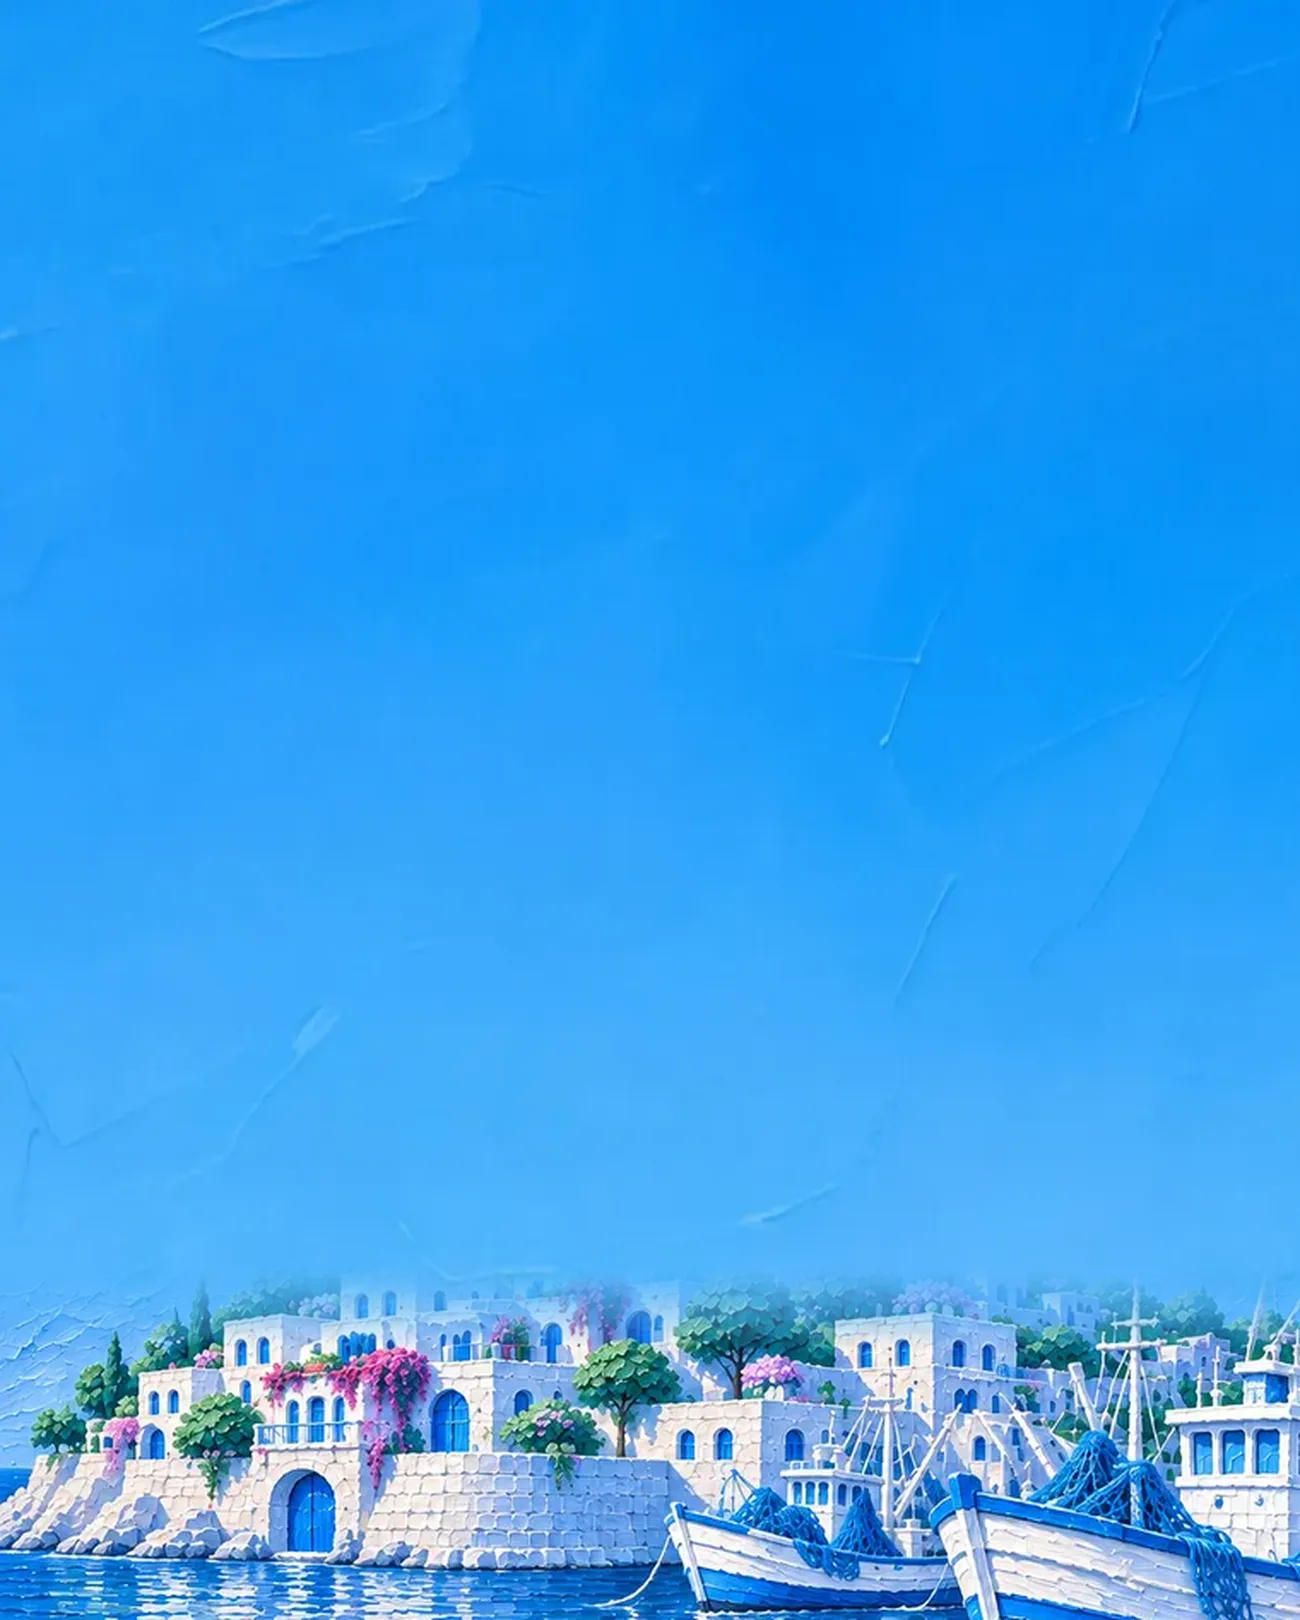
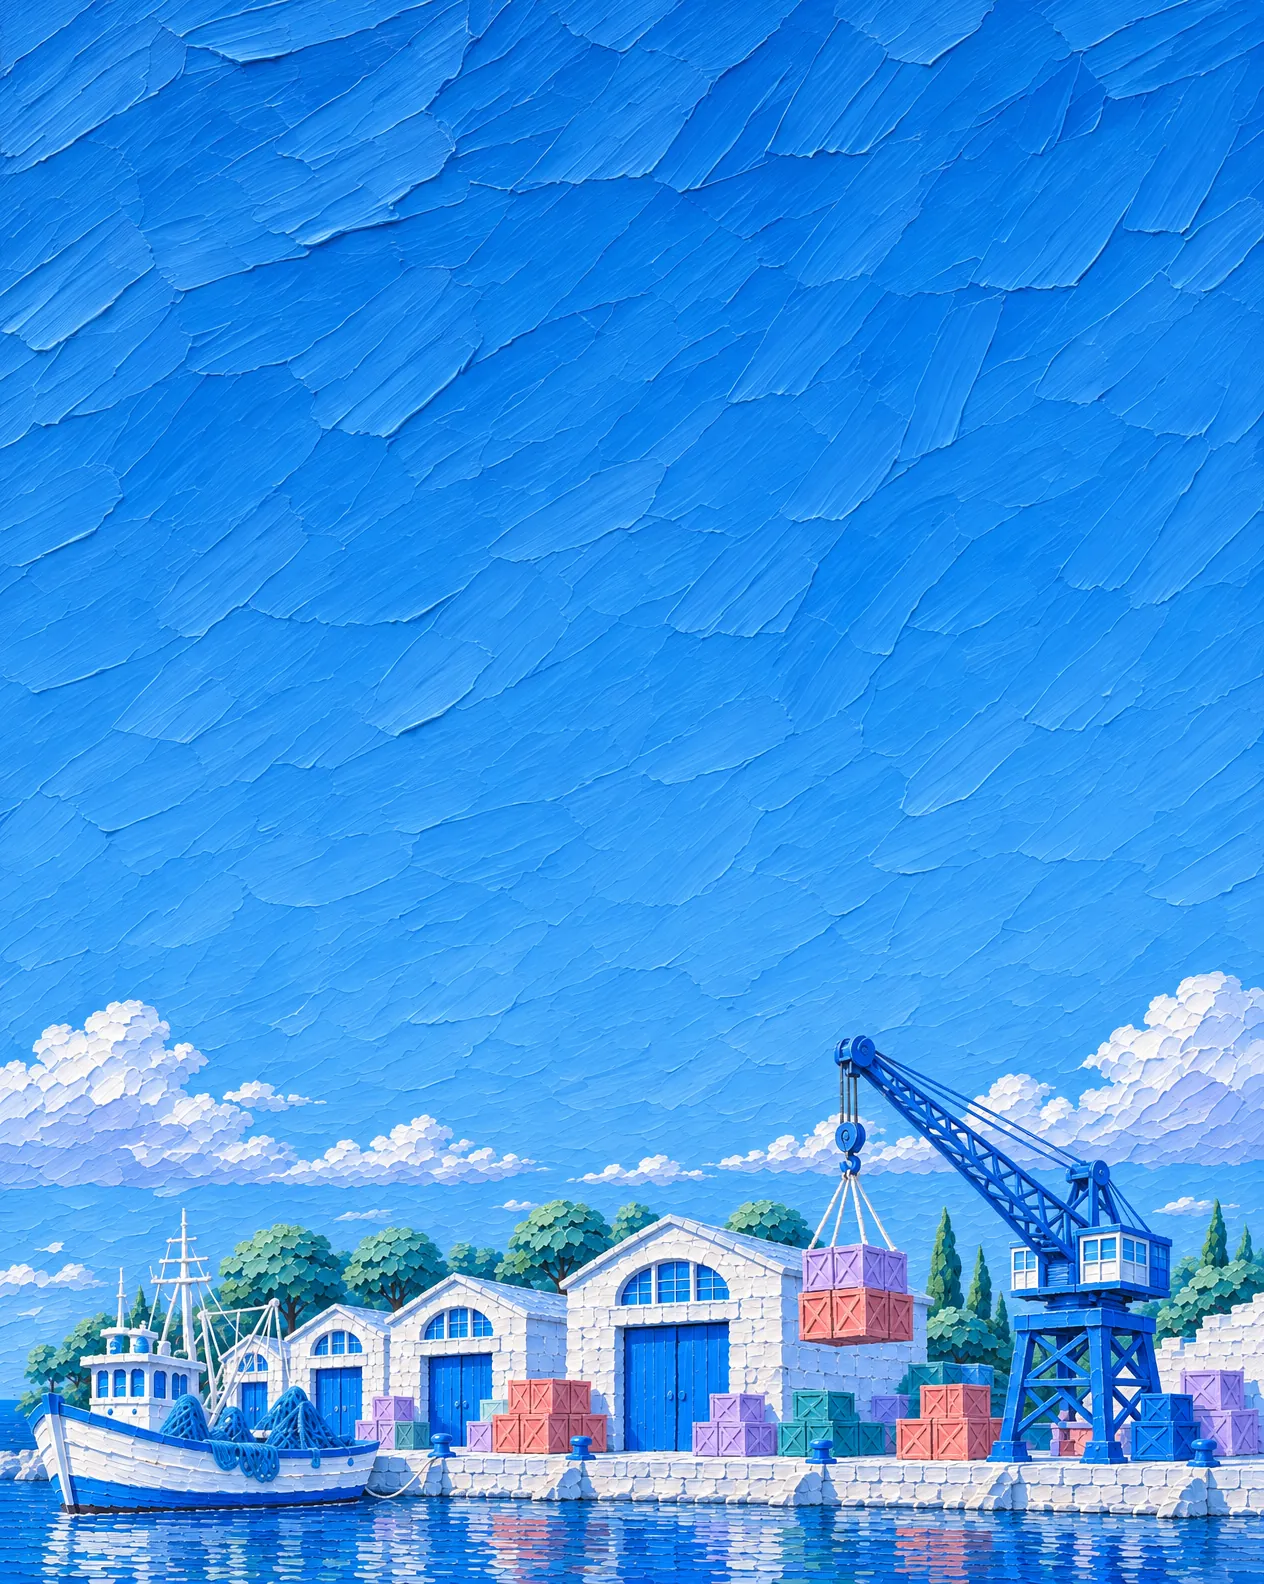
Case stages painted as one picture each (owner, 25.11: the sky faded over a pasted strip of scenery "looks really amateur, make suitable pictures"): six new oil paintings with the sky on about four fifths meeting a real horizon and the place on the bottom fifth, painted from the collage's layout. Th

diff --git a/v7/hf-story.css b/v7/hf-story.css
@@ -34,22 +34,22 @@
 .hf-cf{ transform:translateX(calc(var(--s, 0) * 14px)); }
 /* each case opens under the same calm blue sky, with its own place along the bottom (owner, 25.11: "blue skies in all of them, but
    sometimes a city at the bottom and sometimes a park or something, and the sky always about 80 percent so it does not disturb").
-   img/hf/st-*.webp are the site's calm sky with a strip cut from an existing painting fading in under it: the Introduction over the
-   city skyline, Topics over the city and its green park, Explainable scores on the Compliance beach, Actions at the harbour with its
-   boats, Newsroom at the harbour and its lighthouse, Data over the sea and the sailboats. The strip stays at the foot of the stage
-   and each step pans a little across it (--sky, from 0% to 100%), from --pa by --pk. The sky has no stroked clouds of its own to
+   img/hf/st-*.webp are each painted as one picture (a collage faded in looked amateur, owner 25.11), the scenery on the bottom fifth:
+   the Introduction over the city skyline, Topics over the city and its park, Explainable scores at the lifeguard tower on the
+   promenade, Actions at the old port with its crane and crates, Newsroom at the harbour, Data over the whole city from above. The
+   strip stays at the foot of the stage and each step pans a little across it (--sky, from 0% to 100%), from --pa by --pk. The sky has no stroked clouds of its own to
    fight the product, so the two drawn clouds stay out. */
 .hf.ih, .hf.tq-hf, .hf.es, .hf.an, .hf.nw, .hf.da{ --pa:0%; --pk:1; }
 .hf.ih .in-stage, .hf.tq-hf .in-stage, .hf.es .in-stage, .hf.an .in-stage, .hf.nw .in-stage, .hf.da .in-stage{
   background-color:#36a2f2; background-size:cover; background-position:calc(var(--pa) + var(--sky, 0%) * var(--pk)) 100%; }
 .hf.ih .hf-cb, .hf.ih .hf-cf, .hf.tq-hf .hf-cb, .hf.tq-hf .hf-cf, .hf.es .hf-cb, .hf.es .hf-cf,
 .hf.an .hf-cb, .hf.an .hf-cf, .hf.nw .hf-cb, .hf.nw .hf-cf, .hf.da .hf-cb, .hf.da .hf-cf{ display:none; }
-.hf.ih .in-stage{ background-image:url("../img/hf/st-ih.webp?v=2"); }
-.hf.tq-hf .in-stage{ background-image:url("../img/hf/st-tq.webp?v=2"); --pa:100%; --pk:-1; }
-.hf.es .in-stage{ background-image:url("../img/hf/st-es.webp?v=2"); }
-.hf.an .in-stage{ background-image:url("../img/hf/st-an.webp?v=2"); --pa:100%; --pk:-1; }
-.hf.nw .in-stage{ background-image:url("../img/hf/st-nw.webp?v=2"); }
-.hf.da .in-stage{ background-image:url("../img/hf/st-da.webp?v=2"); --pa:100%; --pk:-1; }
+.hf.ih .in-stage{ background-image:url("../img/hf/st-ih.webp?v=3"); }
+.hf.tq-hf .in-stage{ background-image:url("../img/hf/st-tq.webp?v=3"); --pa:100%; --pk:-1; }
+.hf.es .in-stage{ background-image:url("../img/hf/st-es.webp?v=3"); }
+.hf.an .in-stage{ background-image:url("../img/hf/st-an.webp?v=3"); --pa:100%; --pk:-1; }
+.hf.nw .in-stage{ background-image:url("../img/hf/st-nw.webp?v=3"); }
+.hf.da .in-stage{ background-image:url("../img/hf/st-da.webp?v=3"); --pa:100%; --pk:-1; }
 
 /* the step meter is ink, so it reads on the sky and on a cloud alike */
 .hf .in-meter button::before{ background:rgba(16,34,60,.3); }

diff --git a/work/actions.html b/work/actions.html
@@ -38,7 +38,7 @@ addEventListener('pagehide',function(){try{h.scrollRestoration='auto';}catch(e){
 <link rel="stylesheet" href="../v7/case.css?v=44">
 <link rel="stylesheet" href="../v7/intro.css?v=2">
 <link rel="stylesheet" href="../v7/wf-story.css?v=2">
-<link rel="stylesheet" href="../v7/hf-story.css?v=8">
+<link rel="stylesheet" href="../v7/hf-story.css?v=9">
 <link rel="stylesheet" href="../v7/actions-hf.css?v=3">
 <link rel="icon" href="../favicon.svg?v=1" type="image/svg+xml">
 </head>

diff --git a/work/explainable-scores.html b/work/explainable-scores.html
@@ -38,7 +38,7 @@ addEventListener('pagehide',function(){try{h.scrollRestoration='auto';}catch(e){
 <link rel="stylesheet" href="../v7/case.css?v=44">
 <link rel="stylesheet" href="../v7/intro.css?v=2">
 <link rel="stylesheet" href="../v7/wf-story.css?v=2">
-<link rel="stylesheet" href="../v7/hf-story.css?v=8">
+<link rel="stylesheet" href="../v7/hf-story.css?v=9">
 <link rel="stylesheet" href="../v7/scores-hf.css?v=2">
 <link rel="icon" href="../favicon.svg?v=1" type="image/svg+xml">
 </head>

diff --git a/work/design-lab.html b/work/design-lab.html
@@ -38,7 +38,7 @@ addEventListener('pagehide',function(){try{h.scrollRestoration='auto';}catch(e){
 <link rel="stylesheet" href="../v7/case.css?v=44">
 <link rel="stylesheet" href="../v7/intro.css?v=2">
 <link rel="stylesheet" href="../v7/wf-story.css?v=2">
-<link rel="stylesheet" href="../v7/hf-story.css?v=8">
+<link rel="stylesheet" href="../v7/hf-story.css?v=9">
 <link rel="stylesheet" href="../v7/intro-hf.css?v=5">
 <link rel="icon" href="../favicon.svg?v=1" type="image/svg+xml">
 </head>

diff --git a/work/data.html b/work/data.html
@@ -38,7 +38,7 @@ addEventListener('pagehide',function(){try{h.scrollRestoration='auto';}catch(e){
 <link rel="stylesheet" href="../v7/case.css?v=44">
 <link rel="stylesheet" href="../v7/intro.css?v=2">
 <link rel="stylesheet" href="../v7/wf-story.css?v=2">
-<link rel="stylesheet" href="../v7/hf-story.css?v=8">
+<link rel="stylesheet" href="../v7/hf-story.css?v=9">
 <link rel="stylesheet" href="../v7/data-hf.css?v=2">
 <link rel="icon" href="../favicon.svg?v=1" type="image/svg+xml">
 </head>

diff --git a/work/newsroom.html b/work/newsroom.html
@@ -38,7 +38,7 @@ addEventListener('pagehide',function(){try{h.scrollRestoration='auto';}catch(e){
 <link rel="stylesheet" href="../v7/case.css?v=44">
 <link rel="stylesheet" href="../v7/intro.css?v=2">
 <link rel="stylesheet" href="../v7/wf-story.css?v=2">
-<link rel="stylesheet" href="../v7/hf-story.css?v=8">
+<link rel="stylesheet" href="../v7/hf-story.css?v=9">
 <link rel="stylesheet" href="../v7/news-hf.css?v=2">
 <link rel="icon" href="../favicon.svg?v=1" type="image/svg+xml">
 </head>

diff --git a/work/topics.html b/work/topics.html
@@ -37,7 +37,7 @@ addEventListener('pagehide',function(){try{h.scrollRestoration='auto';}catch(e){
 <link rel="stylesheet" href="../v7/font.css?v=3">
 <link rel="stylesheet" href="../v7/case.css?v=44">
 <link rel="stylesheet" href="../v7/intro.css?v=2">
-<link rel="stylesheet" href="../v7/hf-story.css?v=8">
+<link rel="stylesheet" href="../v7/hf-story.css?v=9">
 <link rel="stylesheet" href="../v7/topics-hf.css?v=3">
 <link rel="icon" href="../favicon.svg?v=1" type="image/svg+xml">
 </head>
